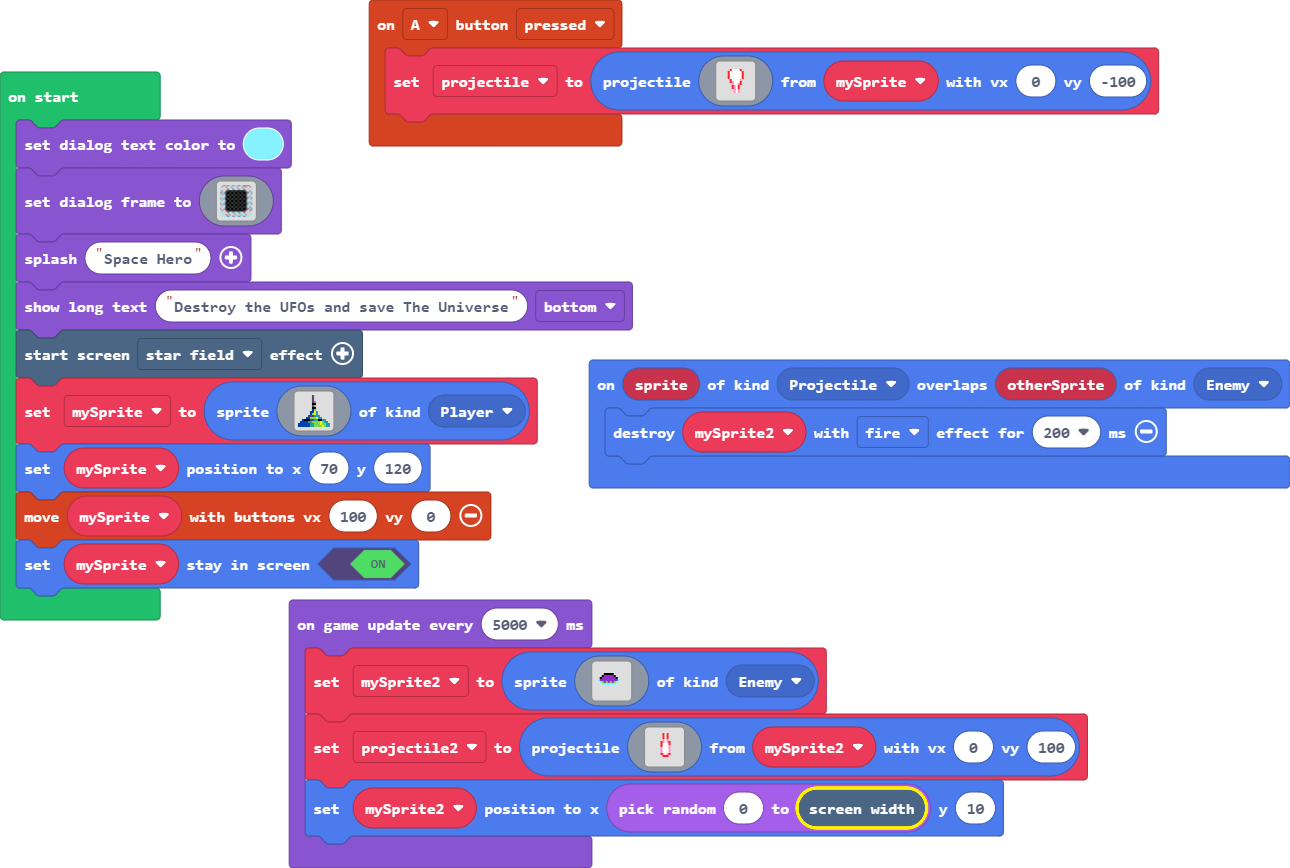
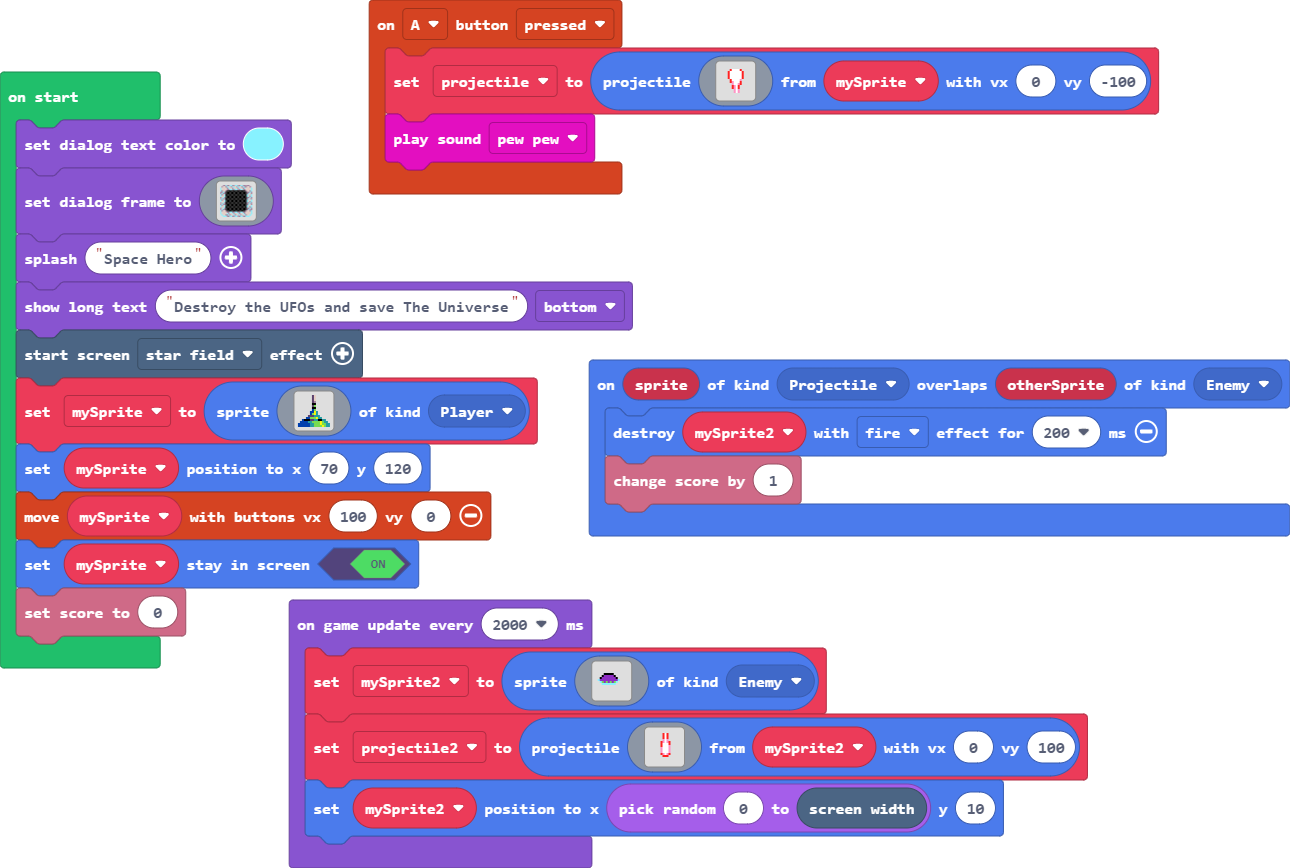
Update main.blocks, main.ts

diff --git a/main.ts b/main.ts
@@ -1,8 +1,10 @@
 controller.A.onEvent(ControllerButtonEvent.Pressed, function () {
     projectile = sprites.createProjectileFromSprite(assets.image`myImage`, mySprite, 0, -100)
+    music.pewPew.play()
 })
 sprites.onOverlap(SpriteKind.Projectile, SpriteKind.Enemy, function (sprite, otherSprite) {
     mySprite2.destroy(effects.fire, 200)
+    info.changeScoreBy(1)
 })
 let projectile2: Sprite = null
 let mySprite2: Sprite = null
@@ -59,7 +61,8 @@ mySprite = sprites.create(img`
 mySprite.setPosition(70, 120)
 controller.moveSprite(mySprite, 100, 0)
 mySprite.setStayInScreen(true)
-game.onUpdateInterval(5000, function () {
+info.setScore(0)
+game.onUpdateInterval(2000, function () {
     mySprite2 = sprites.create(img`
         . . . . . . . . . . . . . . . . 
         . . . . . . . . . . . . . . . . 
